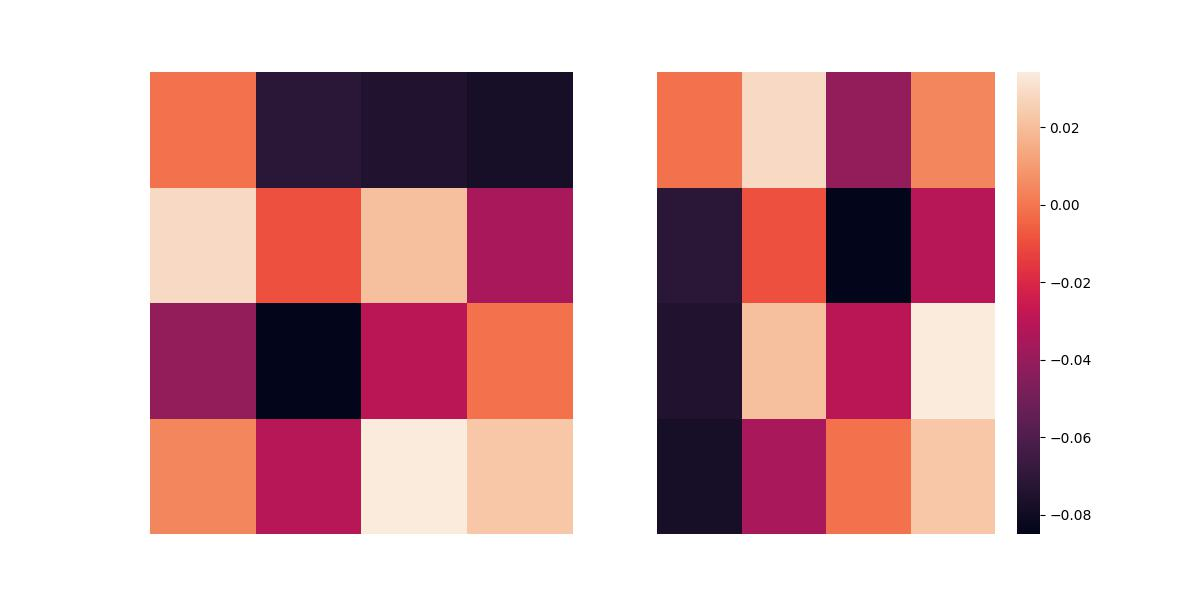
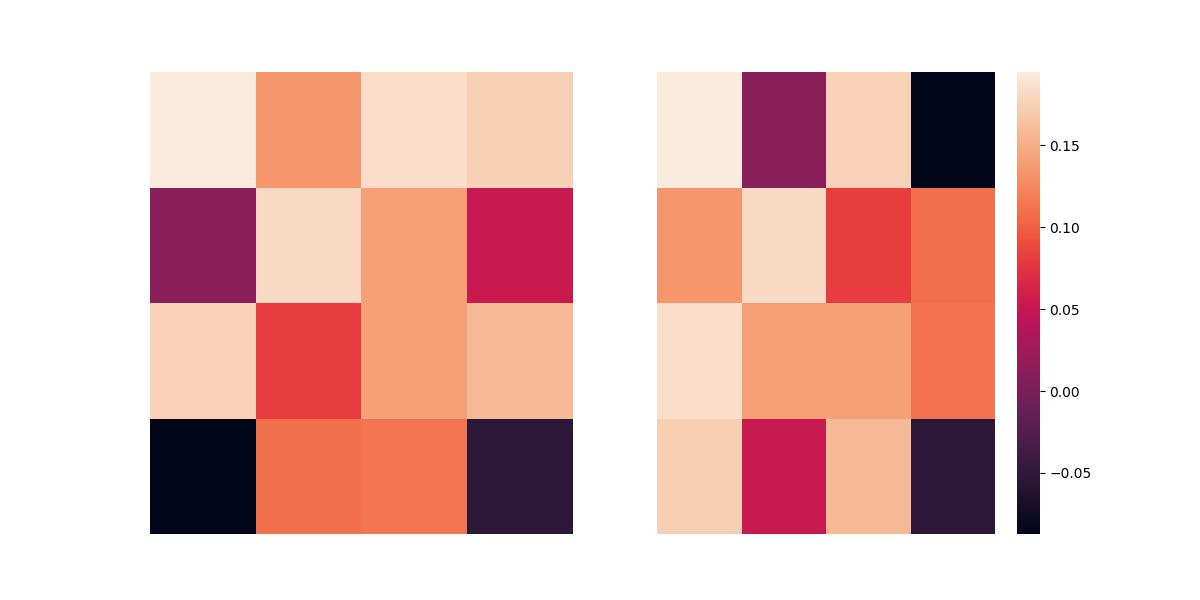
check

diff --git a/train_vlp_v2.py b/train_vlp_v2.py
@@ -234,11 +234,11 @@ def main(args, config):
 
     if args.distributed:
         text_decoder = torch.nn.parallel.DistributedDataParallel(text_decoder, device_ids=[args.gpu], find_unused_parameters=True)
-    optimizer_td = AdamW(text_decoder.module.parameters(), lr=config['training']['vl_learning_rate'], weight_decay=config['training']['weight_decay'], betas=(0.9, 0.98))
+    optimizer_td = AdamW(text_decoder.module.parameters(), lr=1e-3, weight_decay=0, betas=(0.9, 0.98))
 
     lr_scheduler_td = scheduler.CosineAnnealingLR(
                 optimizer=optimizer_td,
-                eta_min=config['training']['learning_rate_min'],
+                eta_min=1e-8,
                 T_max=args.epochs,
             )
     TD_train_dict = dict(
